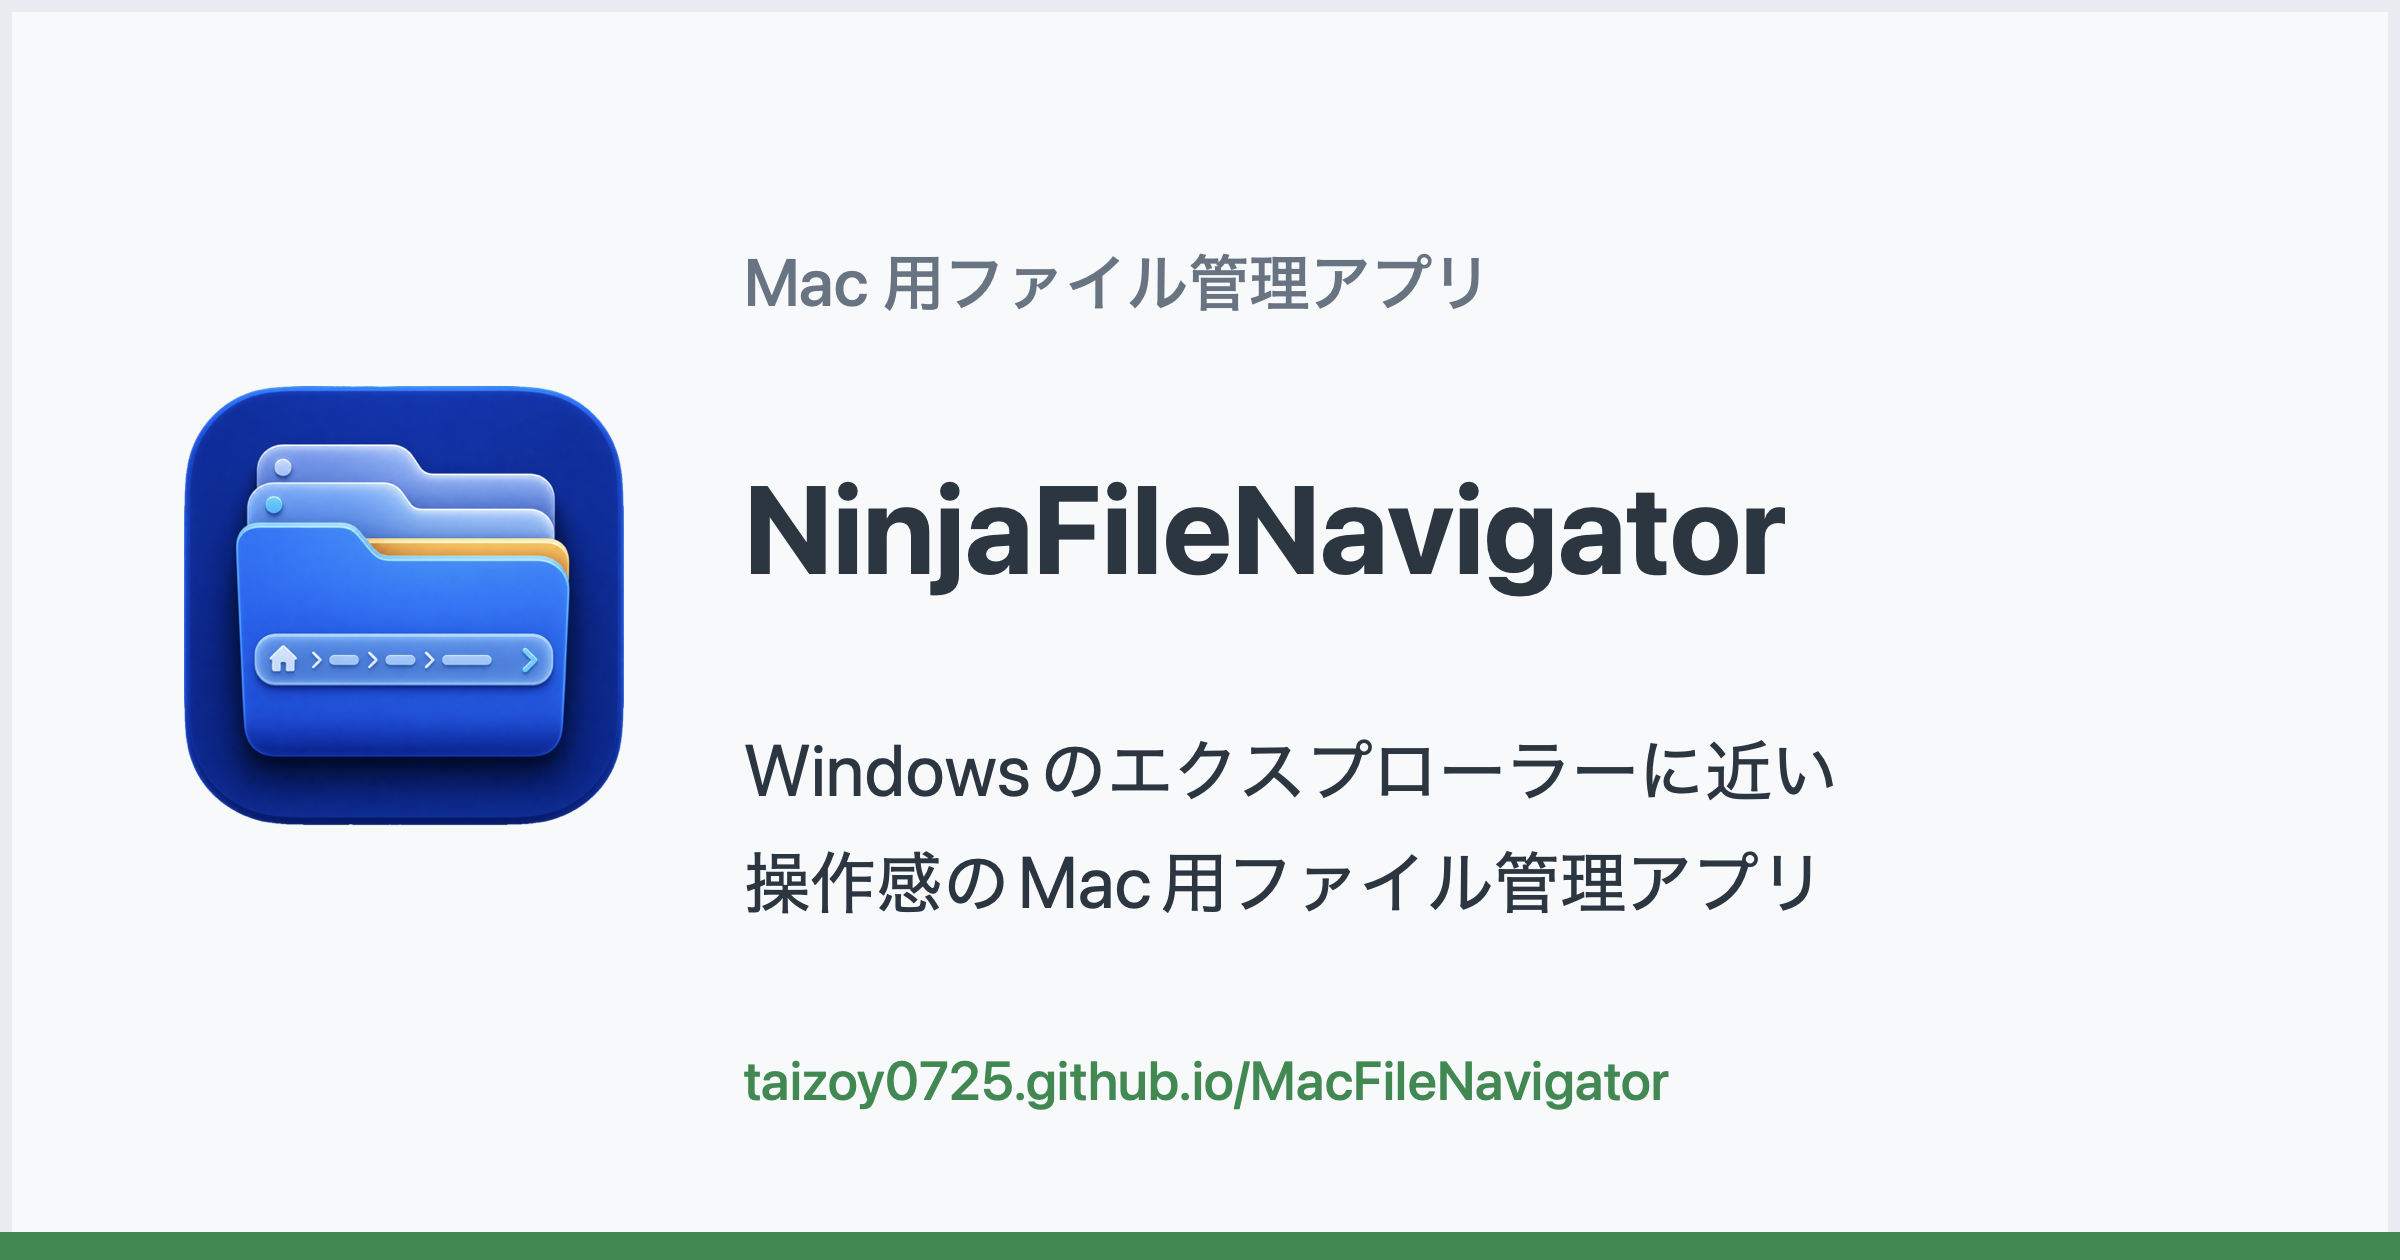
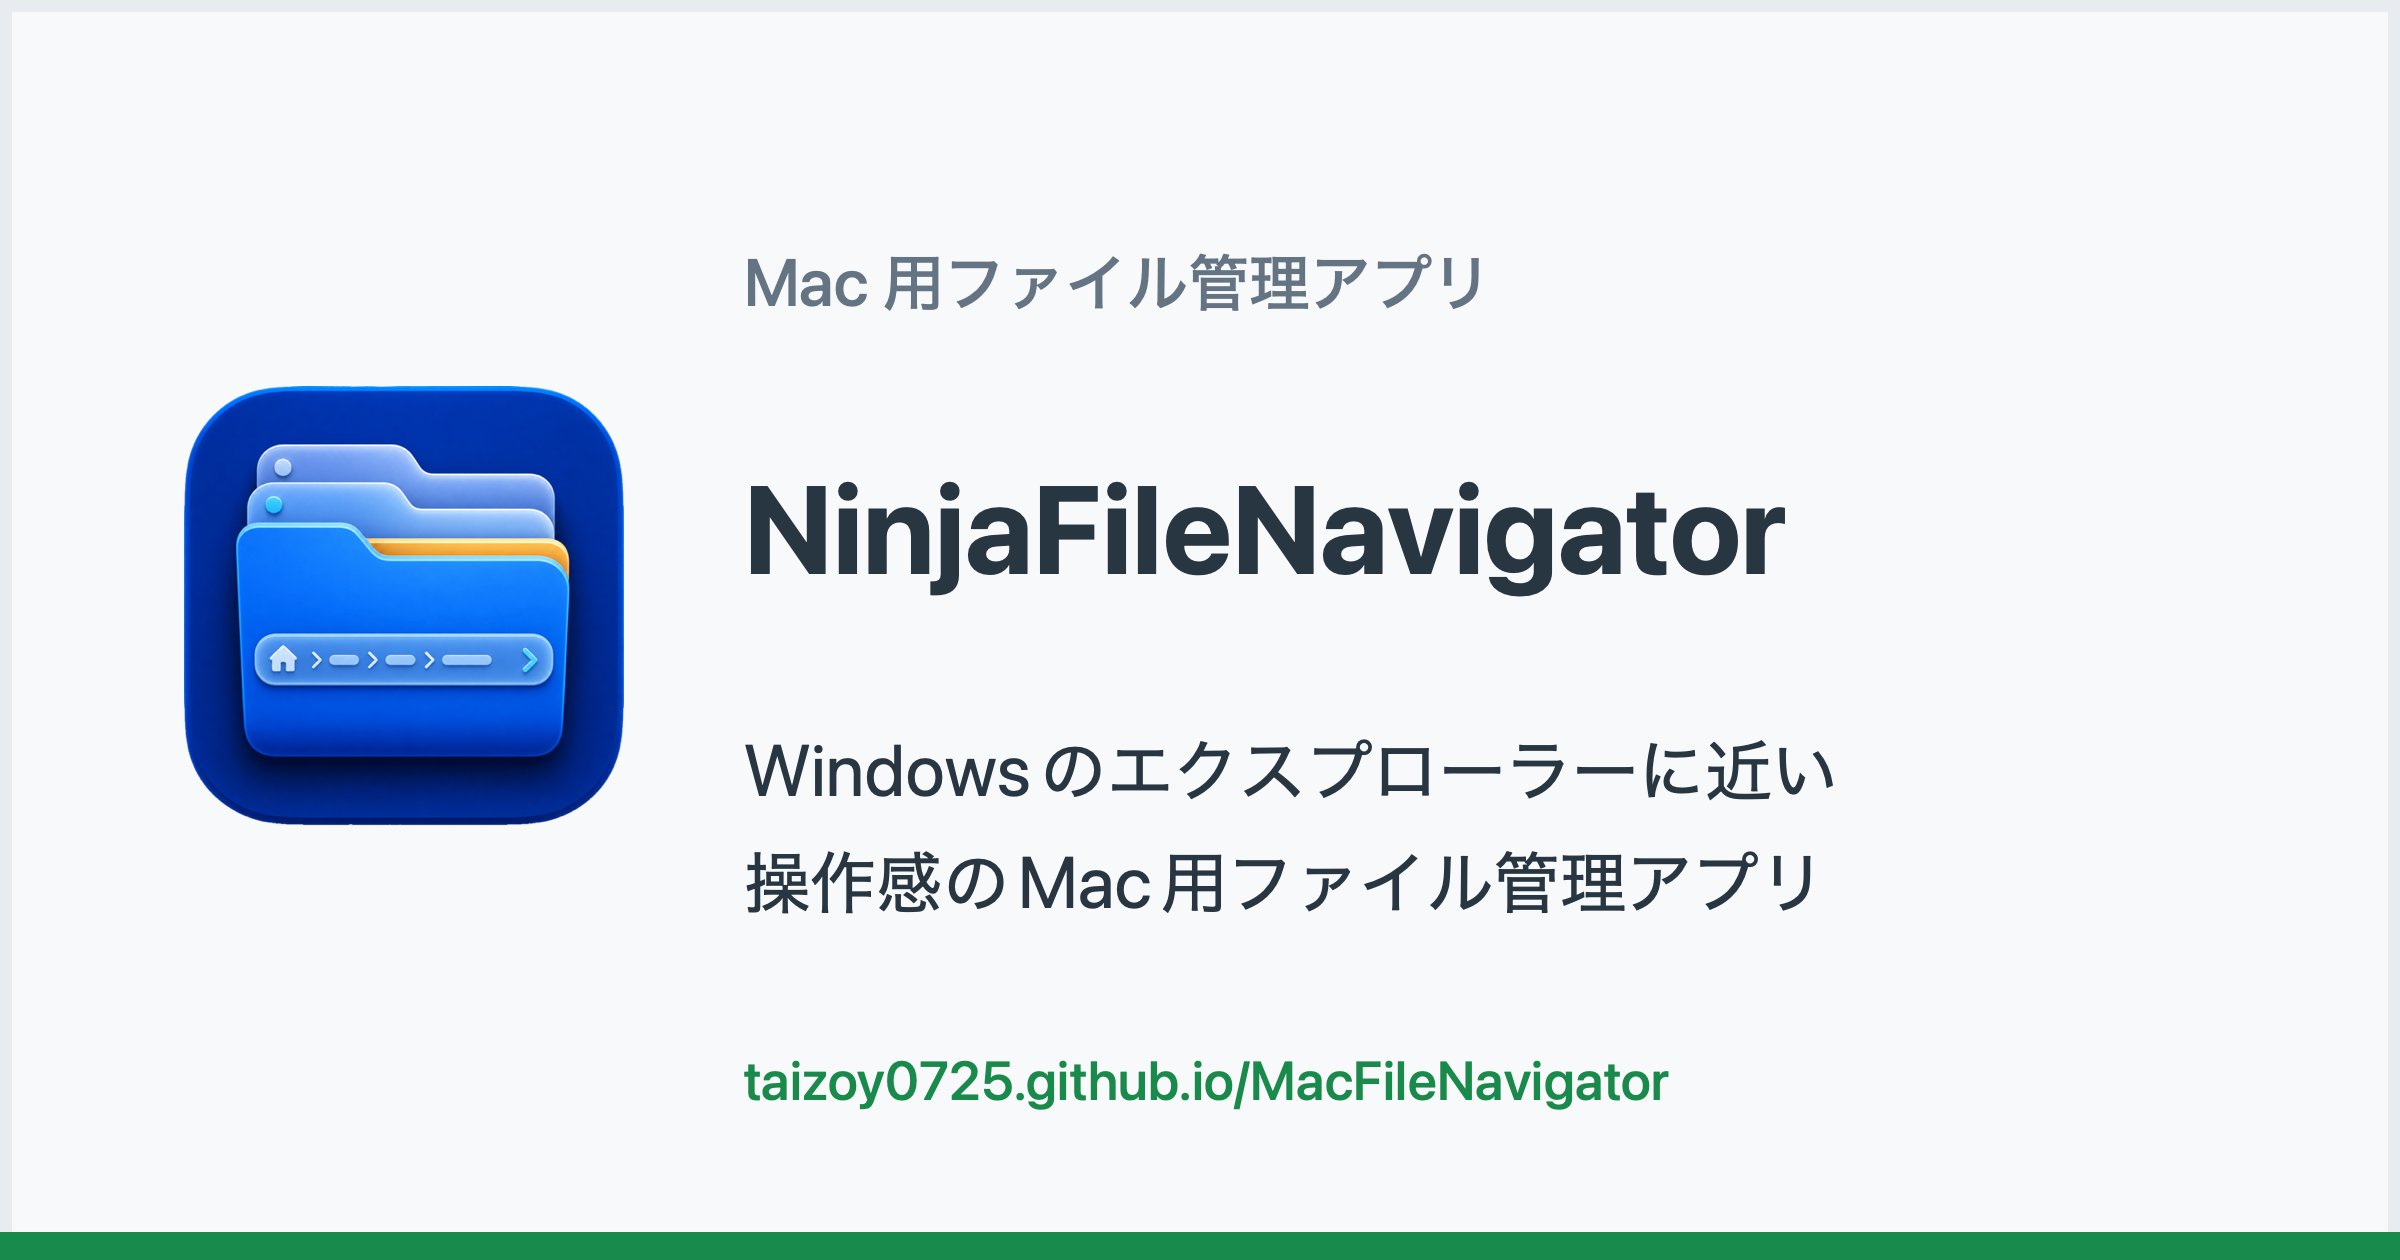
トップページに OGP・Twitter カードを追加し、既存の OGP 画像を 8bit 化する
- トップ (index.html / ja / en) に全アプリのアイコンを並べた assets/ogp.png と
  OGP・Twitter カードのタグを追加。クローラは JS の言語振り分けを実行しないため
  リポジトリ直下の index.html にもタグを入れている。
- 既存4アプリの ogp.png は 16bit RGBA だった。X のクローラがカード生成に失敗する
  ことがあるため 8bit RGB へ変換した (見た目は変わらず、容量は 1/5 程度)。

diff --git a/index.html b/index.html
@@ -4,6 +4,19 @@
     <meta charset="UTF-8">
     <meta name="viewport" content="width=device-width, initial-scale=1.0">
     <title>mobazou Developer Site</title>
+    <!-- OGP / Twitter カード (2026-08-15): SNS のクローラは JS の振り分けを実行しないため、
+         短い URL (taizoy0725.github.io) を貼られたときのプレビューはこのページのタグが使われる -->
+    <meta property="og:type" content="website">
+    <meta property="og:site_name" content="mobazou Developer Site">
+    <meta property="og:title" content="mobazou Developer Site">
+    <meta property="og:description" content="mobazou が公開している iPhone / iPad / Mac アプリのサポートサイトです。">
+    <meta property="og:url" content="https://taizoy0725.github.io/">
+    <meta property="og:image" content="https://taizoy0725.github.io/assets/ogp.png">
+    <meta property="og:locale" content="ja_JP">
+    <meta name="twitter:card" content="summary_large_image">
+    <meta name="twitter:title" content="mobazou Developer Site">
+    <meta name="twitter:description" content="mobazou が公開している iPhone / iPad / Mac アプリのサポートサイトです。">
+    <meta name="twitter:image" content="https://taizoy0725.github.io/assets/ogp.png">
     <script>
         var language = (navigator.language || navigator.userLanguage || "").toLowerCase();
         var target = language.startsWith("ja") ? "ja/index.html" : "en/index.html";

diff --git a/ja/index.html b/ja/index.html
@@ -4,6 +4,19 @@
     <meta charset="UTF-8">
     <meta name="viewport" content="width=device-width, initial-scale=1.0">
     <title>mobazou Developer Site</title>
+    <meta name="description" content="mobazou が公開している iPhone / iPad / Mac アプリのサポートサイトです。">
+    <!-- OGP / Twitter カード (2026-08-15) -->
+    <meta property="og:type" content="website">
+    <meta property="og:site_name" content="mobazou Developer Site">
+    <meta property="og:title" content="mobazou Developer Site">
+    <meta property="og:description" content="mobazou が公開している iPhone / iPad / Mac アプリのサポートサイトです。">
+    <meta property="og:url" content="https://taizoy0725.github.io/ja/index.html">
+    <meta property="og:image" content="https://taizoy0725.github.io/assets/ogp.png">
+    <meta property="og:locale" content="ja_JP">
+    <meta name="twitter:card" content="summary_large_image">
+    <meta name="twitter:title" content="mobazou Developer Site">
+    <meta name="twitter:description" content="mobazou が公開している iPhone / iPad / Mac アプリのサポートサイトです。">
+    <meta name="twitter:image" content="https://taizoy0725.github.io/assets/ogp.png">
     <style>
         * {
             box-sizing: border-box;

diff --git a/en/index.html b/en/index.html
@@ -4,6 +4,19 @@
     <meta charset="UTF-8">
     <meta name="viewport" content="width=device-width, initial-scale=1.0">
     <title>mobazou Developer Site</title>
+    <meta name="description" content="Support pages for the iPhone, iPad and Mac apps published by mobazou.">
+    <!-- OGP / Twitter card (2026-08-15) -->
+    <meta property="og:type" content="website">
+    <meta property="og:site_name" content="mobazou Developer Site">
+    <meta property="og:title" content="mobazou Developer Site">
+    <meta property="og:description" content="Support pages for the iPhone, iPad and Mac apps published by mobazou.">
+    <meta property="og:url" content="https://taizoy0725.github.io/en/index.html">
+    <meta property="og:image" content="https://taizoy0725.github.io/assets/ogp.png">
+    <meta property="og:locale" content="en_US">
+    <meta name="twitter:card" content="summary_large_image">
+    <meta name="twitter:title" content="mobazou Developer Site">
+    <meta name="twitter:description" content="Support pages for the iPhone, iPad and Mac apps published by mobazou.">
+    <meta name="twitter:image" content="https://taizoy0725.github.io/assets/ogp.png">
     <style>
         * {
             box-sizing: border-box;
